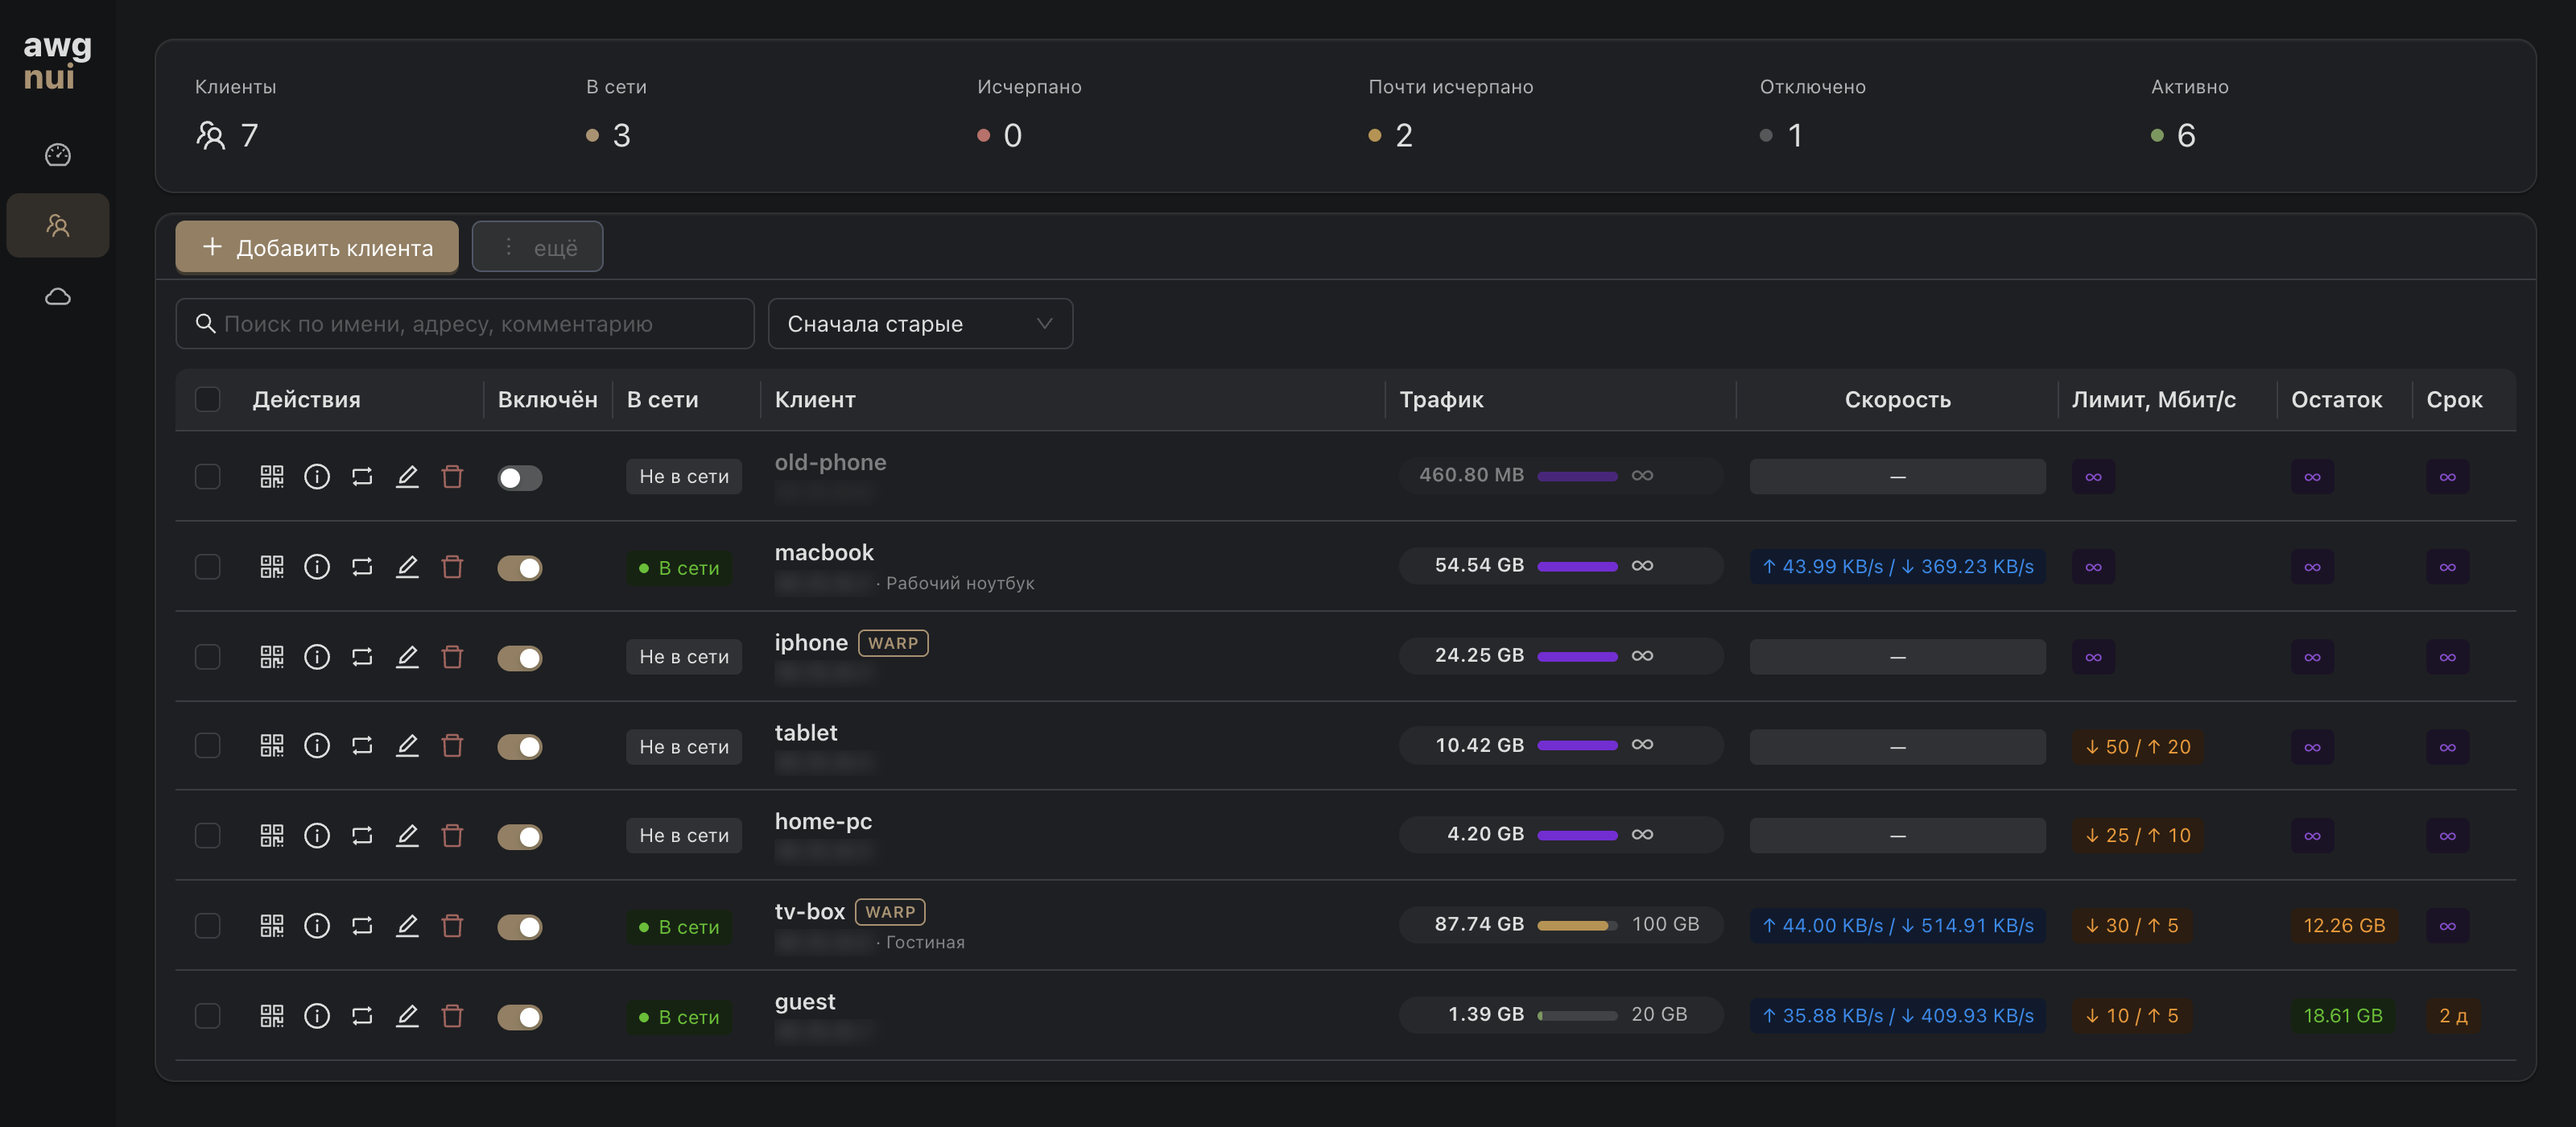
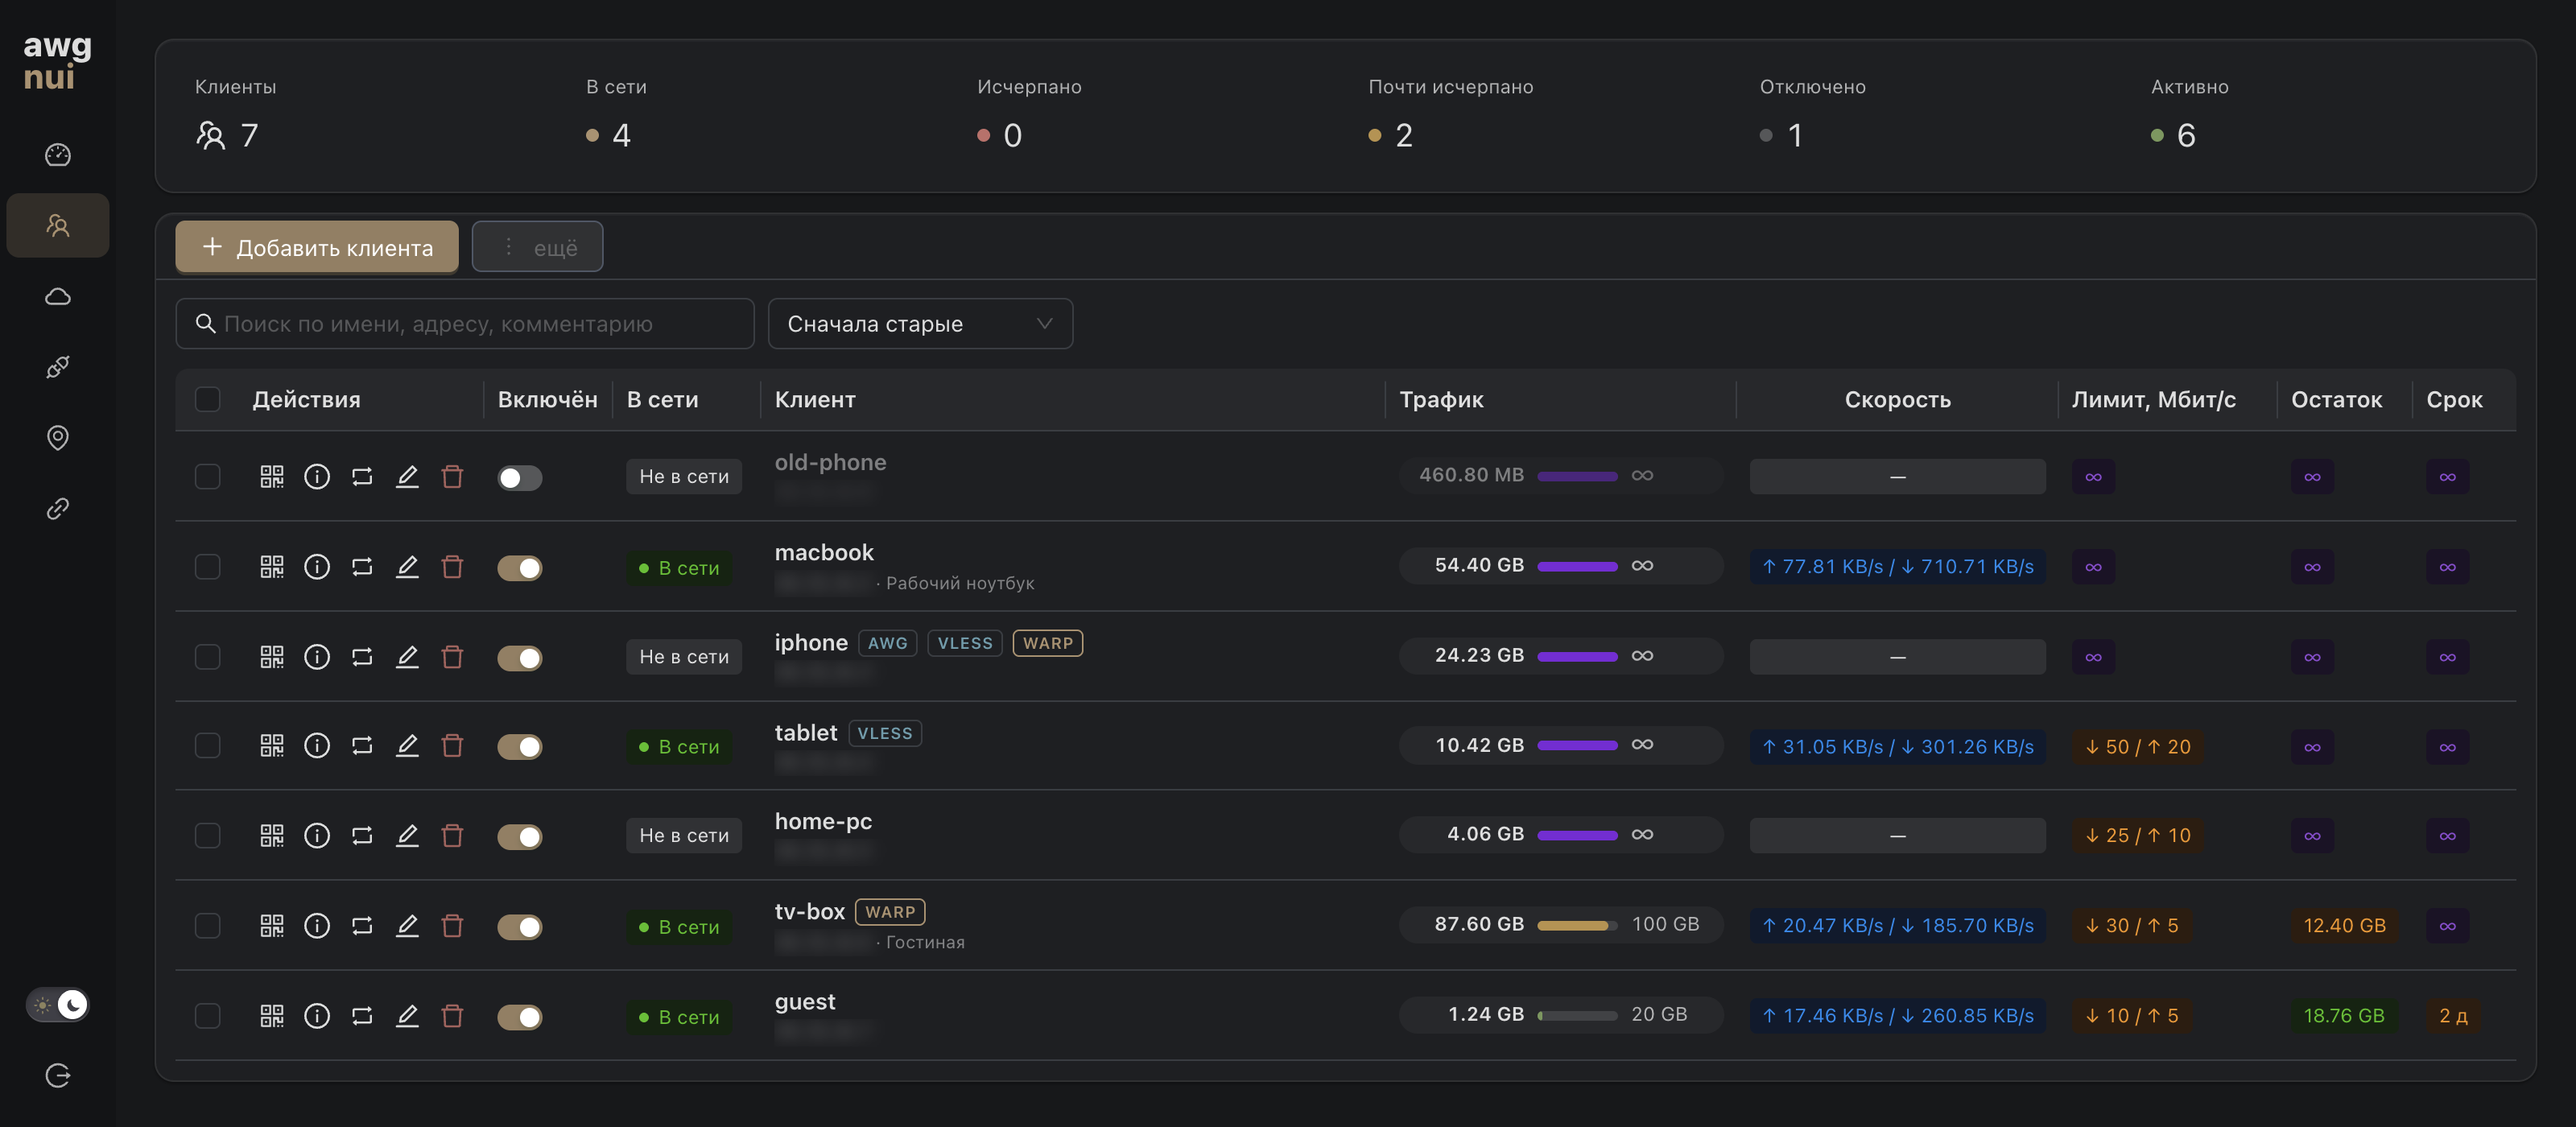
Describe VLESS next to AmneziaWG for v0.8.1

diff --git a/README.md b/README.md
@@ -5,7 +5,7 @@
 <h1 align="center">awg-nui</h1>
 
 <p align="center">
-  Веб-панель для управления сервером AmneziaWG.<br>
+  Веб-панель для управления сервером AmneziaWG и VLESS.<br>
   Устанавливается на ваш сервер за несколько минут, без командной строки.
 </p>
 
@@ -27,9 +27,12 @@
 
 [AmneziaWG](https://amnezia.org) — протокол защищённых сетевых туннелей на основе WireGuard. Подключаться к серверу можно из приложений AmneziaWG и AmneziaVPN на телефоне, компьютере и ТВ-приставке на Android.
 
+Вторым протоколом можно включить VLESS (VLESS + Reality через [Xray](https://github.com/XTLS/Xray-core)): он работает поверх TCP и подходит для приложений Happ, v2RayTun, Hiddify, Streisand, Shadowrocket и v2rayNG.
+
 ## Что умеет
 
 - **Устройства в пару кликов.** Добавили клиента — получили QR-код и файл конфигурации для приложения.
+- **Два протокола.** Каждому устройству можно выдать AmneziaWG, VLESS или оба сразу. VLESS включается в разделе «Настройка VLESS»: Xray панель скачивает сама и проверяет контрольную сумму. Лимиты, срок действия, WARP и учёт трафика работают для обоих протоколов одинаково.
 - **Лимиты на каждого.** Скорость, объём трафика и срок действия задаются отдельно для каждого устройства. Удобно для гостевого доступа на неделю или для ТВ-приставки, которая не должна забирать весь канал.
 - **Cloudflare WARP для выбранных устройств.** Отдельным устройствам можно назначить выход в интернет через сеть Cloudflare WARP вместо адреса сервера. Ничего доустанавливать не нужно. Если WARP недоступен, такие устройства остаются без интернета, а не выходят с адреса сервера.
 - **Проверка регионов.** Панель спрашивает популярные сервисы, CDN и базы GeoIP, к какой стране они относят адрес сервера, а если подключён WARP — и его адрес, по IPv4 и IPv6. Видно, какую страну называет большинство и кто считает иначе.
@@ -42,8 +45,8 @@
 ## Как это выглядит
 
 <p align="center">
-  <img src="images/clients.png" alt="Список клиентов: трафик, скорость, лимиты, сроки">
-  <br><sub>Клиенты: трафик, скорость, лимиты и сроки действия</sub>
+  <img src="images/clients.png" alt="Список клиентов: протоколы, трафик, скорость, лимиты, сроки">
+  <br><sub>Клиенты: протоколы, трафик, скорость, лимиты и сроки действия</sub>
 </p>
 
 <p align="center">
@@ -65,7 +68,7 @@
 
 - **Сервер (VPS)** с Ubuntu 22.04 / 24.04 или Debian 12 / 13 на виртуализации KVM. Хватит недорогого тарифа с одним ядром. OpenVZ и LXC не подойдут: для AmneziaWG нужен модуль ядра.
 - **Доступ к серверу по SSH** под root или под пользователем с sudo: адрес и пароль (или SSH-ключ) хостер присылает после покупки.
-- **Приложение на устройствах** с поддержкой AmneziaWG 3.1: AmneziaWG для Windows 3.1.0 и новее, для Android 3.1.20260814 и новее или AmneziaVPN 5.0.1.5 и новее.
+- **Приложение на устройствах** с поддержкой AmneziaWG 3.1: AmneziaWG для Windows 3.1.0 и новее, для Android 3.1.20260814 и новее или AmneziaVPN 5.0.1.5 и новее. Для VLESS — приложение с поддержкой VLESS + Reality, например Happ, v2RayTun, Hiddify, Streisand, Shadowrocket или v2rayNG.
 
 ## Установка
 
@@ -124,8 +127,8 @@ bash install.sh
 <img align="right" width="300" src="images/connect.png" alt="Окно подключения устройства с QR-кодом">
 
 1. Откройте ссылку на панель и войдите с логином и паролем из установщика.
-2. В разделе «Клиенты» нажмите «Добавить клиента», назовите устройство и нажмите «Создать». Лимиты и срок действия можно задать сразу или позже.
-3. Сразу откроется окно с QR-кодом: отсканируйте его в приложении. На компьютере удобнее скачать файл `.conf` и открыть его в приложении. Позже это окно открывается значком QR-кода в строке клиента.
+2. В разделе «Клиенты» нажмите «Добавить клиента», назовите устройство и нажмите «Создать». Лимиты и срок действия можно задать сразу или позже. Если VLESS включён, в той же форме отметьте нужные протоколы.
+3. Сразу откроется окно с QR-кодом: отсканируйте его в приложении. На компьютере удобнее скачать файл `.conf` и открыть его в приложении. Для VLESS в том же окне есть вкладка со ссылкой `vless://` и её QR-кодом. Позже это окно открывается значком QR-кода в строке клиента.
 
 <br clear="right">
 
@@ -195,6 +198,8 @@ bash install.sh
 <br>
 
 Модуль ядра AmneziaWG из официального репозитория Amnezia и сама панель: один файл `/opt/awg-nui/awg-nui` и системная служба `awg-nui`. Docker не нужен. Данные панели лежат в `/var/lib/awg-nui`.
+
+Если включить VLESS, панель скачает официальный Xray с GitHub в `/opt/awg-nui/xray` (версия и контрольная сумма закреплены в панели) и запустит его отдельной службой `awg-nui-xray`. Выключение VLESS в панели удаляет и Xray.
 
 </details>
 
